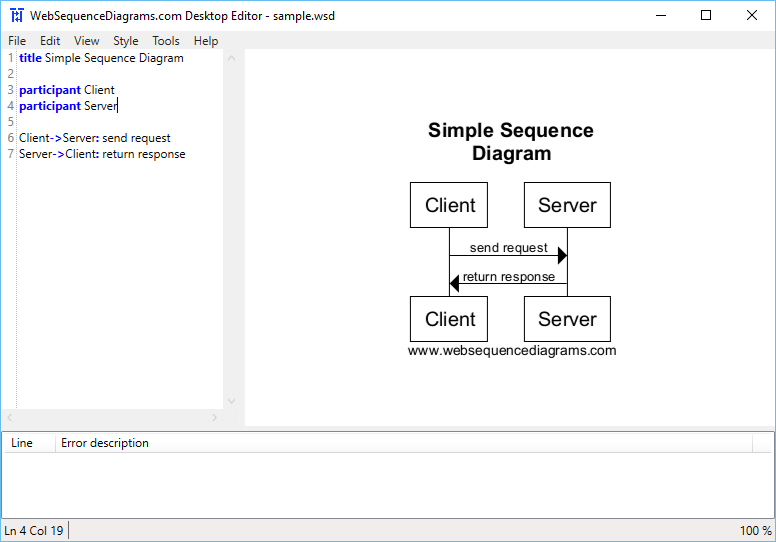
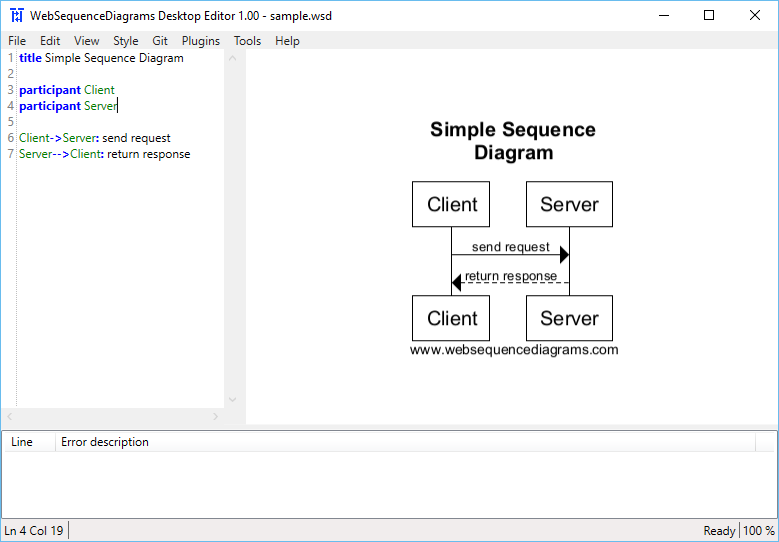
Version 1.0

diff --git a/README.md b/README.md
@@ -1,8 +1,59 @@
-WebSequenceDiagrams.com Desktop Editor
-==========
+# WebSequenceDiagrams Desktop Editor
 
-A simple desktop editor for [WebSequenceDiagrams.com](https://www.websequencediagrams.com/) sequence diagrams.
+A Windows desktop editor for [WebSequenceDiagrams](https://www.websequencediagrams.com/) sequence diagrams.
+
+### Downloads
+
+Version 1.00 (25.04.2016)
+
+* [portable version (ZIP)](https://raw.githubusercontent.com/vurdalakov/websequencediagrams/master/zip/WebSequenceDiagramsDesktopEditor_1_00.zip)
+
+![Screenshot of WebSequenceDiagrams.com Desktop Editor](https://raw.githubusercontent.com/vurdalakov/websequencediagrams/master/img/screenshot1.png)
+
+### Features
+
+* Syntax highlighting.
+* Git support.
+* Easy error fixing.
+* Advanced editing features:
+  * Extract participant names through the whole script to `participant` clauses.
+  * Rename participants through the whole script.
+* Supports all WebSequenceDiagrams styles.
+* Saves sequence diagrams images in BMP, GIF, JPG, PNG and TIFF formats.
+* Exports sequence diagrams images in PDF and SVG formats <sup>*</sup>.
+* Supports WebSequenceDiagrams [premium features <sup>*</sup>](https://www.websequencediagrams.com/order.html).
+* Sequence diagram image zoom.
+* Customizable new file template.
+* Remembers last 5 edited files.
+* Can open last edited file at startup.
+
+<small><sup>*</sup>Requires WebSequenceDiagrams [premium subscription](https://www.websequencediagrams.com/order.html)</small>
+
+### Acknowledgements
+
+This project is inspired by WebSequenceDiagrams's idea of creating sequence diagrams from script. Uses WebSequenceDiagrams [REST API](https://www.websequencediagrams.com/embedding.html).
+
+Other open source projects used:
+
+* [Json.NET](http://www.newtonsoft.com/json)
+* [AvalonEdit](http://avalonedit.net/)
+* [LibGit2Sharp](https://libgit2.github.com/)
+* [WiX Toolset](http://wixtoolset.org/)
+* [7-Zip](http://www.7-zip.org/)
+
+### License
 
 Distributed under the terms of the [MIT license](https://opensource.org/licenses/MIT).
 
-![Screenshot of WebSequenceDiagrams.com Desktop Editor](https://raw.githubusercontent.com/vurdalakov/websequencediagrams/master/img/screenshot1.png)
+### Disclaimer
+
+This project is not associated with nor sponsored by [WebSequenceDiagrams](https://www.websequencediagrams.com/) nor [Hanov Solutions Inc.](http://www.hanovsolutions.com/)
+
+```
+THE SOFTWARE IS PROVIDED "AS IS", WITHOUT WARRANTY OF ANY KIND, EXPRESS OR 
+IMPLIED, INCLUDING BUT NOT LIMITED TO THE WARRANTIES OF MERCHANTABILITY, FITNESS
+FOR A PARTICULAR PURPOSE AND NONINFRINGEMENT. IN NO EVENT SHALL THE AUTHORS OR
+COPYRIGHT HOLDERS BE LIABLE FOR ANY CLAIM, DAMAGES OR OTHER LIABILITY, WHETHER
+IN AN ACTION OF CONTRACT, TORT OR OTHERWISE, ARISING FROM, OUT OF OR IN
+CONNECTION WITH THE SOFTWARE OR THE USE OR OTHER DEALINGS IN THE SOFTWARE.
+```
